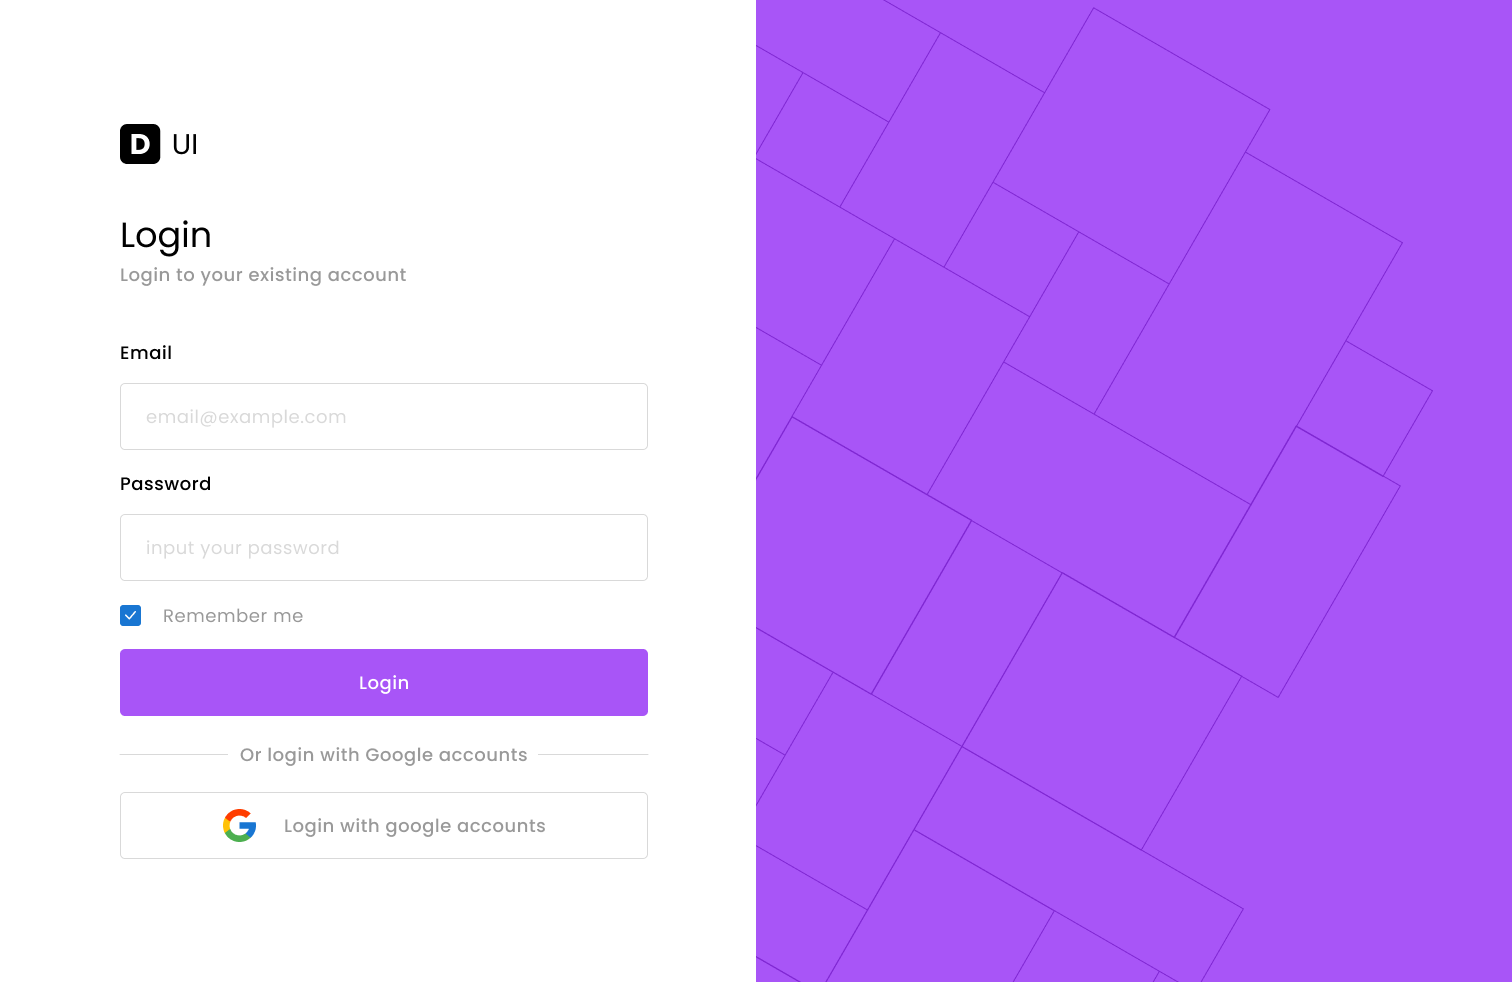
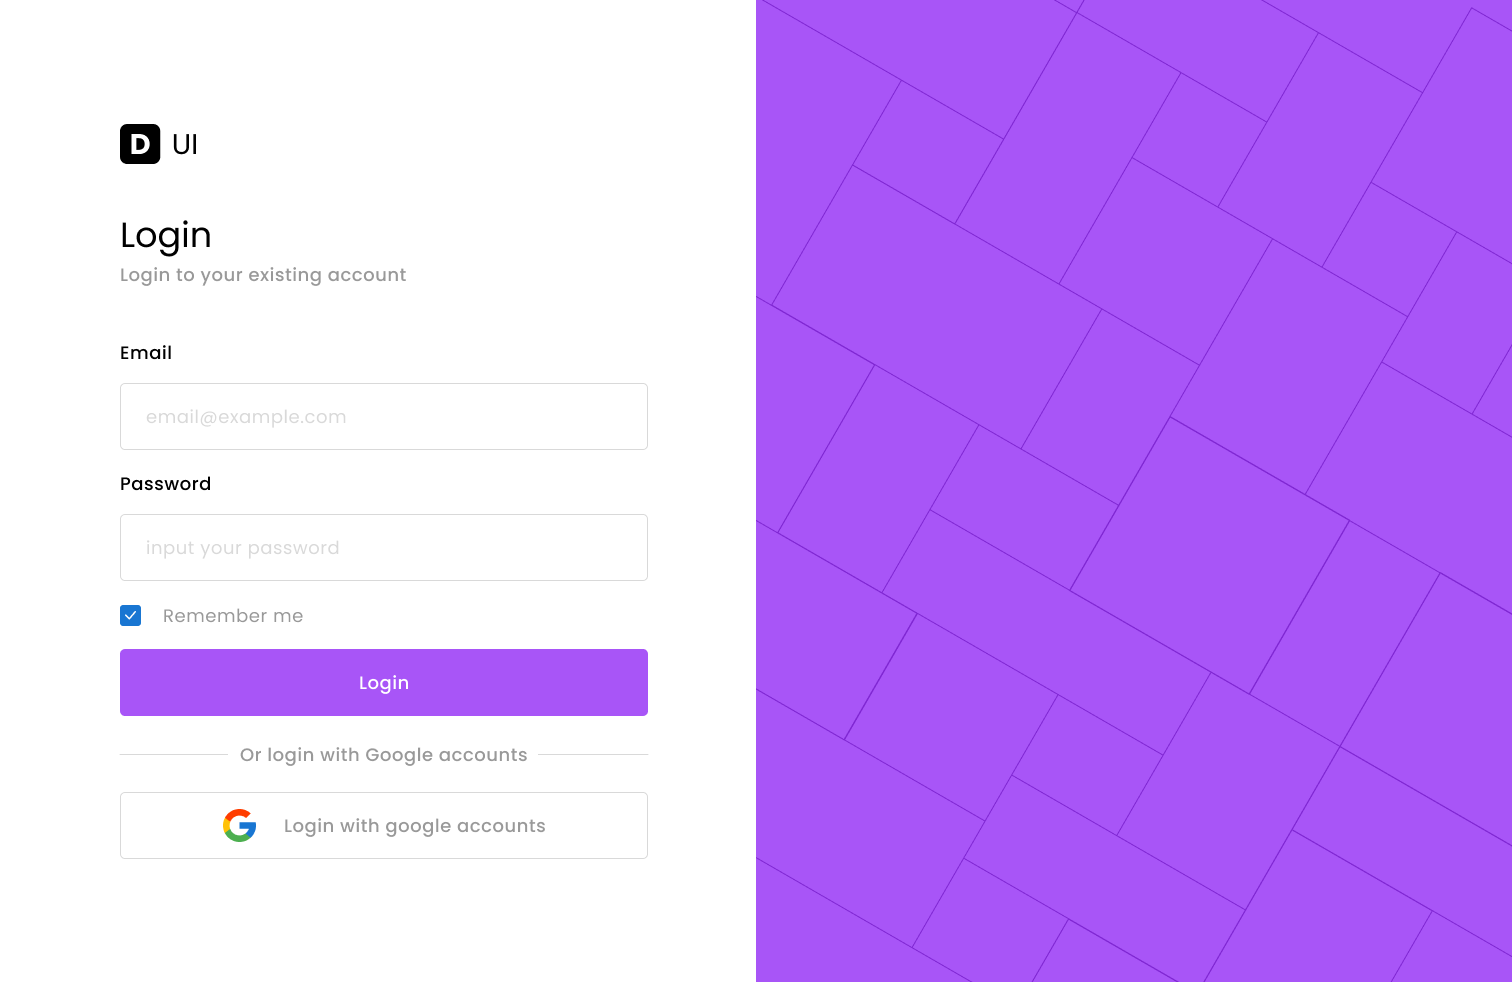
:construction: Fix AUTH component v1

Changed region(s): [[0.6839, 0.5804, 0.7149, 0.611]]

diff --git a/pages/auth-v1/register.html b/pages/auth-v1/register.html
@@ -1,0 +1,82 @@
+<!DOCTYPE html>
+<html lang="en">
+<head>
+    <meta charset="UTF-8">
+    <meta http-equiv="X-UA-Compatible" content="IE=edge">
+    <meta name="viewport" content="width=device-width, initial-scale=1.0">
+    <title>Register</title>
+    <!-- TAILWIND CDN -->
+    <script src="https://cdn.tailwindcss.com"></script>
+    <link rel="stylesheet" href="/asset/css/custom.css">
+    <!--  -->
+    <link rel="preconnect" href="https://fonts.googleapis.com">
+    <link rel="preconnect" href="https://fonts.gstatic.com" crossorigin>
+    <link href="https://fonts.googleapis.com/css2?family=Poppins:wght@300;400;500;600;700;800&display=swap" rel="stylesheet">
+</head>
+<body>
+    <div class="w-full relative">
+        <div class="w-full max-w-screen-custom mx-auto h-screen lg:h-auto lg:pt-10 grid grid-cols-1 lg:grid-cols-5">
+            <!-- LEFT : FORM -->
+            <form action="#" class="w-full lg:col-span-3 flex flex-col justify-center items-center space-y-5 p-5 max-w-lg mx-auto">
+                <div class="w-full">
+                    <img src="/asset/logo.svg" alt="">
+                </div>
+                <div class="w-full">
+                    <h1 class="text-lg md:text-xl font-medium">Register</h1>
+                    <p class="text-slate-500">Lets create your account</p>
+                </div>
+                <!-- SINGLE INPUT -->
+                <div class="w-full">
+                    <label for="name" class="text-sm uppercase font-medium text-slate-400">Name</label>
+                    <div class="relative text-slate-400 focus-within:text-purple-500">
+                        <input type="text" name="" id="name" placeholder="Your name" class="w-full mt-1 text-sm px-5 py-3 rounded-md focus:outline-none border border-slate-300 text-slate-700 transition-all duration-300 focus:shadow-sm focus:border-purple-500 focus:ring-2 focus:ring-purple-200">
+                    </div>
+                </div>
+                <!-- SINGLE INPUT -->
+                <div class="w-full">
+                    <label for="email" class="text-sm uppercase font-medium text-slate-400">Email</label>
+                    <input type="email" name="" id="email" placeholder="example@email.com" class="w-full mt-1 text-sm px-5 py-3 rounded-md focus:outline-none border border-slate-300 text-slate-700 transition-all duration-300 focus:shadow-sm focus:border-purple-500 focus:ring-2 focus:ring-purple-200">
+                </div>
+                <!-- SINGLE INPUT -->
+                <div class="w-full">
+                    <label for="password" class="text-sm uppercase font-medium text-slate-400">Password</label>
+                    <div id="input-password" class="relative text-slate-400 focus-within:text-purple-500">
+                        <input type="password" name="" id="password" placeholder="Input your password" class="w-full mt-1 text-sm px-5 py-3 rounded-md focus:outline-none border border-slate-300 text-slate-700 transition-all duration-300 focus:shadow-sm focus:border-purple-500 focus:ring-2 focus:ring-purple-200">
+                    </div>
+                </div>
+                <!-- CHECKBOXES -->
+                <div class="w-full flex">
+                    <input type="checkbox" name="" id="remember-me" class="cursor-pointer">
+                    <label for="remember-me" class="text-sm ml-2 text-slate-400 cursor-pointer">Remember me</label>
+                </div>
+                <!-- SUBMIT BUTTON -->
+                <div class="w-full flex">
+                    <button type="submit" class="w-full py-3 transition-all duration-300 bg-purple-500 hover:bg-purple-700 focus:ring-2 focus:ring-purple-300 rounded-md text-white text-sm">Register</button>
+                </div>
+                <!-- GOOGLE AUTH -->
+                <div class="w-full relative py-2">
+                    <div class="w-full border-b absolute -z-10"></div>
+                    <div class="absolute top-1/2 left-1/2 transform -translate-x-1/2 -translate-y-1/2 px-3 bg-white w-fit">
+                        <span class="text-xs md:text-sm">Login with google account</span>
+                    </div>
+                </div>
+                <!--  -->
+                <div class="w-full flex">
+                    <a href="#" class="w-full py-3 transition-all duration-300 hover:bg-slate-100 border border-slate-300 focus:ring-2 focus:ring-slate-300 rounded-md flex justify-center text-sm">
+                        <svg class="w-5 h-5" xmlns="http://www.w3.org/2000/svg" aria-hidden="true" role="img" preserveAspectRatio="xMidYMid meet" viewBox="0 0 48 48"><path fill="#FFC107" d="M43.611 20.083H42V20H24v8h11.303c-1.649 4.657-6.08 8-11.303 8c-6.627 0-12-5.373-12-12s5.373-12 12-12c3.059 0 5.842 1.154 7.961 3.039l5.657-5.657C34.046 6.053 29.268 4 24 4C12.955 4 4 12.955 4 24s8.955 20 20 20s20-8.955 20-20c0-1.341-.138-2.65-.389-3.917z"/><path fill="#FF3D00" d="m6.306 14.691l6.571 4.819C14.655 15.108 18.961 12 24 12c3.059 0 5.842 1.154 7.961 3.039l5.657-5.657C34.046 6.053 29.268 4 24 4C16.318 4 9.656 8.337 6.306 14.691z"/><path fill="#4CAF50" d="M24 44c5.166 0 9.86-1.977 13.409-5.192l-6.19-5.238A11.91 11.91 0 0 1 24 36c-5.202 0-9.619-3.317-11.283-7.946l-6.522 5.025C9.505 39.556 16.227 44 24 44z"/><path fill="#1976D2" d="M43.611 20.083H42V20H24v8h11.303a12.04 12.04 0 0 1-4.087 5.571l.003-.002l6.19 5.238C36.971 39.205 44 34 44 24c0-1.341-.138-2.65-.389-3.917z"/></svg>
+                        <span class="text-slate-400 ml-2">Login with google accounts</span>
+                    </a>
+                </div>
+            </form>
+        </div>
+        <!-- PATTERN -->
+        <img src="/asset/img/auth-v1-pattern.svg" class="w-full h-full lg:hidden object-cover opacity-10 absolute inset-0 -z-10" alt="">
+        <div class="hidden lg:block w-2/5 overflow-hidden bg-purple-500 object-cover absolute top-0 right-0">
+            <img src="/asset/img/auth-v1-pattern.svg" class="w-full" alt="">
+        </div>
+    </div>
+
+    <!--  -->
+    <script src="/asset/js/auth.js"></script>
+</body>
+</html>

diff --git a/pages/auth-v1/login.html b/pages/auth-v1/login.html
@@ -1,0 +1,75 @@
+<!DOCTYPE html>
+<html lang="en">
+<head>
+    <meta charset="UTF-8">
+    <meta http-equiv="X-UA-Compatible" content="IE=edge">
+    <meta name="viewport" content="width=device-width, initial-scale=1.0">
+    <title>Login</title>
+    <!-- TAILWIND CDN -->
+    <script src="https://cdn.tailwindcss.com"></script>
+    <link rel="stylesheet" href="/asset/css/custom.css">
+    <!--  -->
+    <link rel="preconnect" href="https://fonts.googleapis.com">
+    <link rel="preconnect" href="https://fonts.gstatic.com" crossorigin>
+    <link href="https://fonts.googleapis.com/css2?family=Poppins:wght@300;400;500;600;700;800&display=swap" rel="stylesheet">
+</head>
+<body>
+    <div class="w-full relative">
+        <div class="w-full max-w-screen-custom mx-auto h-screen grid grid-cols-1 lg:grid-cols-5">
+            <!-- LEFT : FORM -->
+            <form action="#" class="w-full lg:col-span-3 flex flex-col justify-center items-center space-y-5 p-5 max-w-lg mx-auto">
+                <div class="w-full">
+                    <img src="/asset/logo.svg" alt="">
+                </div>
+                <div class="w-full">
+                    <h1 class="text-lg md:text-xl font-medium">Login</h1>
+                    <p class="text-slate-500">Login to your existing account</p>
+                </div>
+                <!-- SINGLE INPUT -->
+                <div class="w-full">
+                    <label for="email" class="text-sm uppercase font-medium text-slate-400">Email</label>
+                    <input type="email" name="" id="email" placeholder="example@email.com" class="w-full mt-1 text-sm px-5 py-3 rounded-md focus:outline-none border border-slate-300 text-slate-700 transition-all duration-300 focus:shadow-sm focus:border-purple-500 focus:ring-2 focus:ring-purple-200">
+                </div>
+                <!-- SINGLE INPUT -->
+                <div class="w-full">
+                    <label for="password" class="text-sm uppercase font-medium text-slate-400">Password</label>
+                    <div id="input-password" class="relative text-slate-400 focus-within:text-purple-500">
+                        <input type="password" name="" id="password" placeholder="Input your password" class="w-full mt-1 text-sm px-5 py-3 rounded-md focus:outline-none border border-slate-300 text-slate-700 transition-all duration-300 focus:shadow-sm focus:border-purple-500 focus:ring-2 focus:ring-purple-200">
+                    </div>
+                </div>
+                <!-- CHECKBOXES -->
+                <div class="w-full flex">
+                    <input type="checkbox" name="" id="remember-me" class="cursor-pointer">
+                    <label for="remember-me" class="text-sm ml-2 text-slate-400 cursor-pointer">Remember me</label>
+                </div>
+                <!-- SUBMIT BUTTON -->
+                <div class="w-full flex">
+                    <button type="submit" class="w-full py-3 transition-all duration-300 bg-purple-500 hover:bg-purple-700 focus:ring-2 focus:ring-purple-300 rounded-md text-white text-sm">Login</button>
+                </div>
+                <!-- GOOGLE AUTH -->
+                <div class="w-full relative py-2">
+                    <div class="w-full border-b absolute -z-10"></div>
+                    <div class="absolute top-1/2 left-1/2 transform -translate-x-1/2 -translate-y-1/2 px-3 bg-white w-fit">
+                        <span class="text-xs">Login with google account</span>
+                    </div>
+                </div>
+                <!--  -->
+                <div class="w-full flex">
+                    <a href="#" class="w-full py-3 transition-all duration-300 hover:bg-slate-100 border border-slate-300 focus:ring-2 focus:ring-slate-300 rounded-md flex justify-center text-sm">
+                        <svg class="w-5 h-5" xmlns="http://www.w3.org/2000/svg" aria-hidden="true" role="img" preserveAspectRatio="xMidYMid meet" viewBox="0 0 48 48"><path fill="#FFC107" d="M43.611 20.083H42V20H24v8h11.303c-1.649 4.657-6.08 8-11.303 8c-6.627 0-12-5.373-12-12s5.373-12 12-12c3.059 0 5.842 1.154 7.961 3.039l5.657-5.657C34.046 6.053 29.268 4 24 4C12.955 4 4 12.955 4 24s8.955 20 20 20s20-8.955 20-20c0-1.341-.138-2.65-.389-3.917z"/><path fill="#FF3D00" d="m6.306 14.691l6.571 4.819C14.655 15.108 18.961 12 24 12c3.059 0 5.842 1.154 7.961 3.039l5.657-5.657C34.046 6.053 29.268 4 24 4C16.318 4 9.656 8.337 6.306 14.691z"/><path fill="#4CAF50" d="M24 44c5.166 0 9.86-1.977 13.409-5.192l-6.19-5.238A11.91 11.91 0 0 1 24 36c-5.202 0-9.619-3.317-11.283-7.946l-6.522 5.025C9.505 39.556 16.227 44 24 44z"/><path fill="#1976D2" d="M43.611 20.083H42V20H24v8h11.303a12.04 12.04 0 0 1-4.087 5.571l.003-.002l6.19 5.238C36.971 39.205 44 34 44 24c0-1.341-.138-2.65-.389-3.917z"/></svg>
+                        <span class="text-slate-400 ml-2">Login with google accounts</span>
+                    </a>
+                </div>
+            </form>
+        </div>
+        <!-- PATTERN -->
+        <img src="/asset/img/auth-v1-pattern.svg" class="w-full h-full lg:hidden object-cover opacity-10 absolute inset-0 -z-10" alt="">
+        <div class="hidden lg:block w-2/5 h-screen overflow-hidden bg-purple-500 object-cover absolute top-0 right-0">
+            <img src="/asset/img/auth-v1-pattern.svg" class="w-full" alt="">
+        </div>
+    </div>
+
+    <!--  -->
+    <script src="/asset/js/auth.js"></script>
+</body>
+</html>

diff --git a/asset/js/auth.js b/asset/js/auth.js
@@ -1,0 +1,31 @@
+const inputPassword = document.querySelector('#password')
+
+const passwordValidation = document.createElement('div')
+passwordValidation.innerHTML = `
+    <button id="toggle-password" class="absolute right-0 top-0 pr-3 flex items-center h-full pt-1">
+        <div class="password">
+            <svg class="w-5 h-5 transition-all duration-300" xmlns="http://www.w3.org/2000/svg" aria-hidden="true" role="img" preserveAspectRatio="xMidYMid meet" viewBox="0 0 24 24"><g fill="none" stroke="currentColor" stroke-linecap="round" stroke-linejoin="round" stroke-width="2"><path d="M21.257 10.962c.474.62.474 1.457 0 2.076C19.764 14.987 16.182 19 12 19c-4.182 0-7.764-4.013-9.257-5.962a1.692 1.692 0 0 1 0-2.076C4.236 9.013 7.818 5 12 5c4.182 0 7.764 4.013 9.257 5.962Z"/><circle cx="12" cy="12" r="3"/></g></svg>
+        </div>
+        <div class="text hidden">
+            <svg class="w-5 h-5 transition-all duration-300" xmlns="http://www.w3.org/2000/svg" aria-hidden="true" role="img" preserveAspectRatio="xMidYMid meet" viewBox="0 0 24 24"><g fill="none" stroke="currentColor" stroke-linecap="round" stroke-linejoin="round" stroke-width="2"><path d="M6.873 17.129c-1.845-1.31-3.305-3.014-4.13-4.09a1.693 1.693 0 0 1 0-2.077C4.236 9.013 7.818 5 12 5c1.876 0 3.63.807 5.13 1.874"/><path d="M14.13 9.887a3 3 0 1 0-4.243 4.242M4 20L20 4M10 18.704A7.124 7.124 0 0 0 12 19c4.182 0 7.764-4.013 9.257-5.962a1.694 1.694 0 0 0-.001-2.078A22.939 22.939 0 0 0 19.57 9"/></g></svg>
+        </div>
+    </button>
+`
+document.querySelector('#input-password').append(passwordValidation)
+
+const togglePassword = document.querySelector('#toggle-password')
+const hidePassword = togglePassword.querySelector('.password')
+const showPassword = togglePassword.querySelector('.text')
+            
+togglePassword.addEventListener('click', function() {
+
+    if(inputPassword.getAttribute('type') === "password") {
+        inputPassword.setAttribute('type', 'text')
+        hidePassword.classList.add('hidden')
+        showPassword.classList.remove('hidden')
+    } else {
+        inputPassword.setAttribute('type', 'password')
+        hidePassword.classList.remove('hidden')
+        showPassword.classList.add('hidden')
+    }
+})

diff --git a/asset/css/custom.css b/asset/css/custom.css
@@ -1,6 +1,9 @@
 body {
     font-family: 'Poppins', sans-serif;
 }
+.max-w-screen-custom {
+  max-width: 1150px;
+}
 
 /* SIDEBAR MENU HOVER */
 #sidebar-menu ul li a, #sidebar-menu ul li button {
